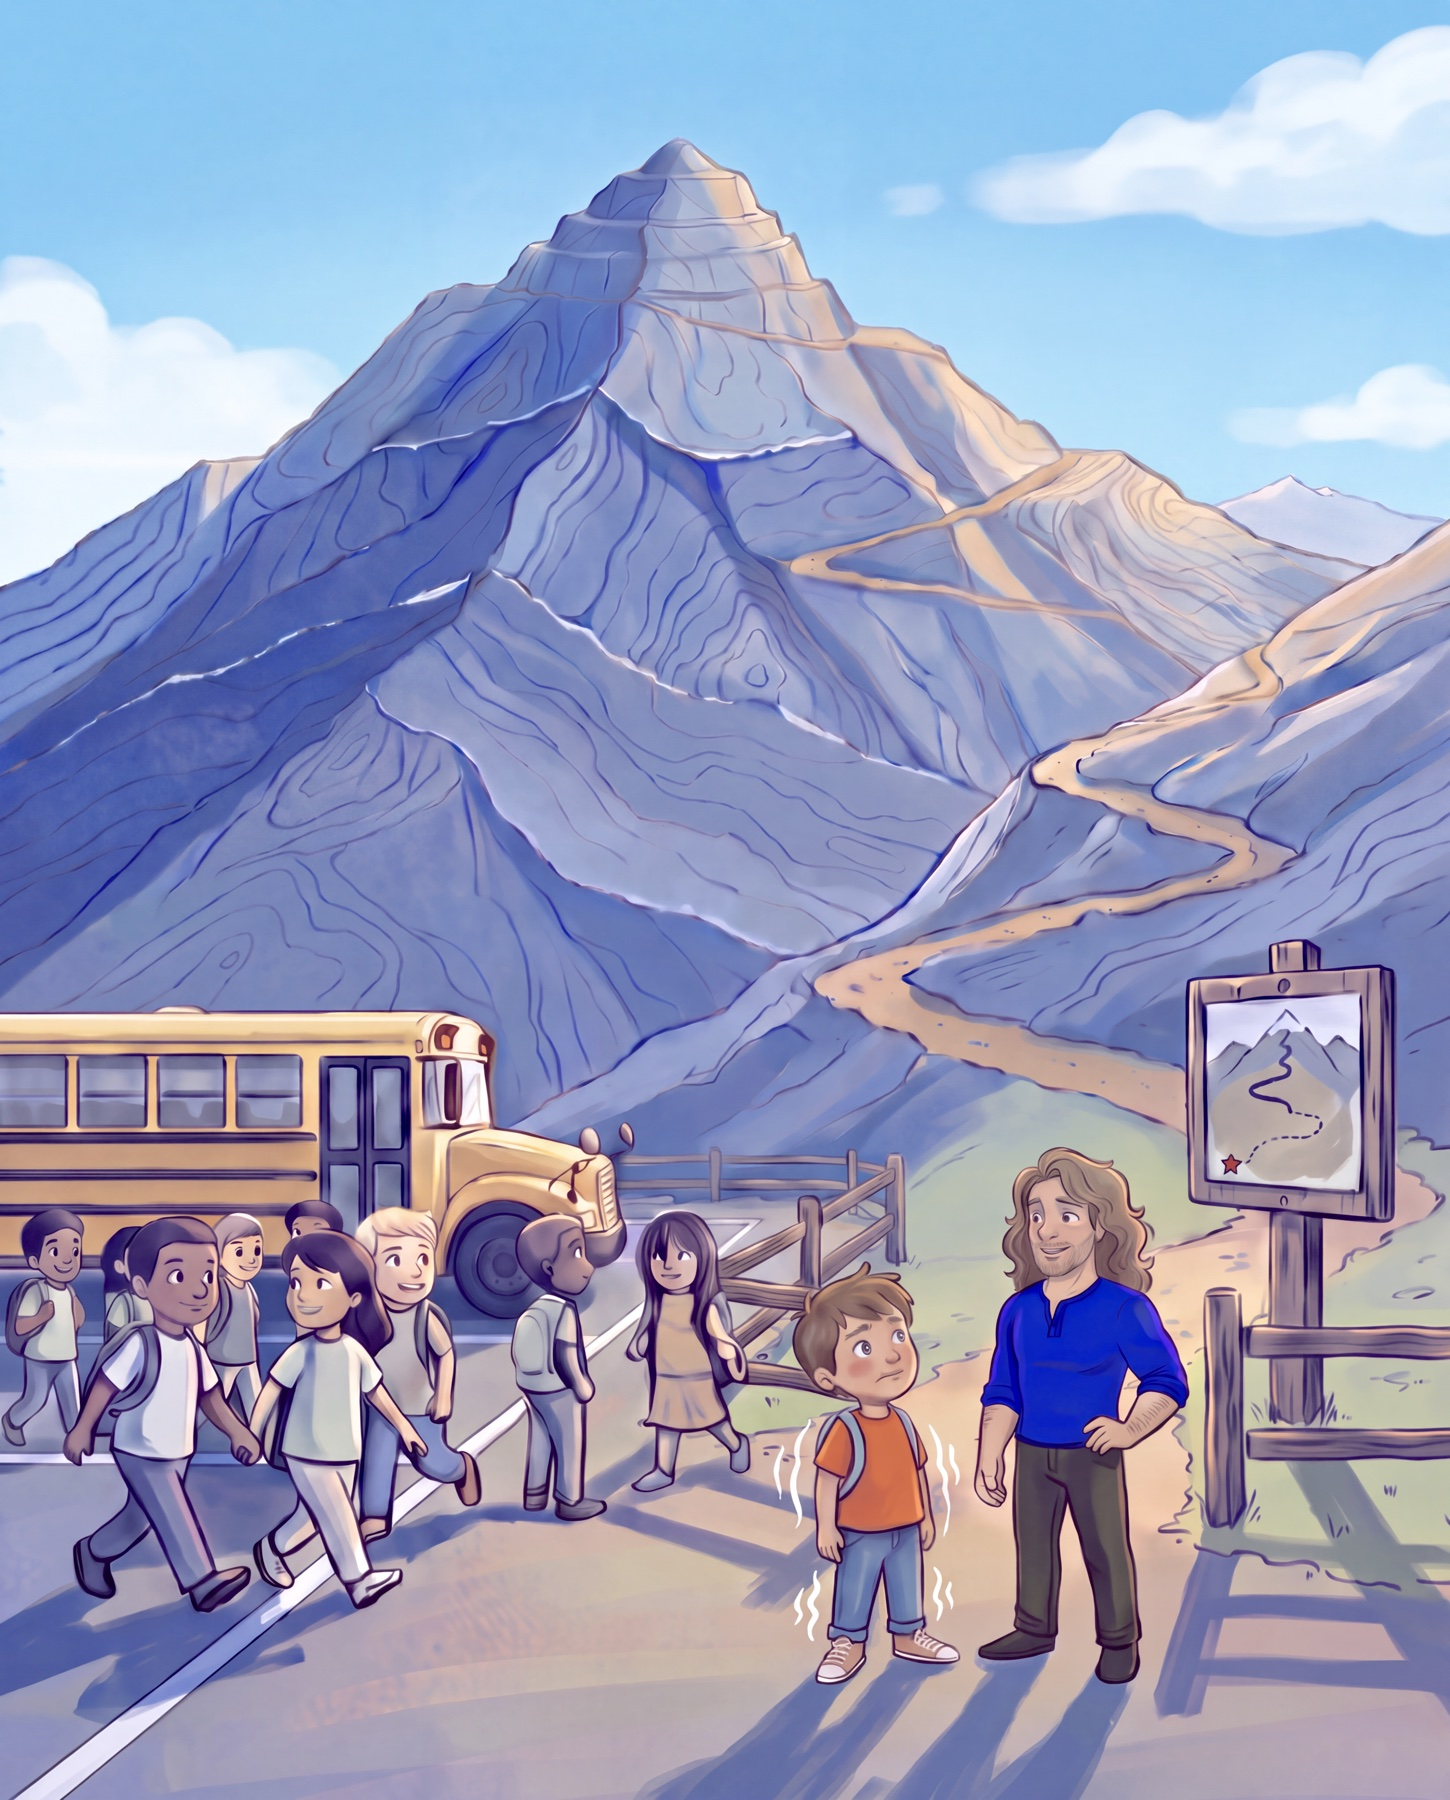
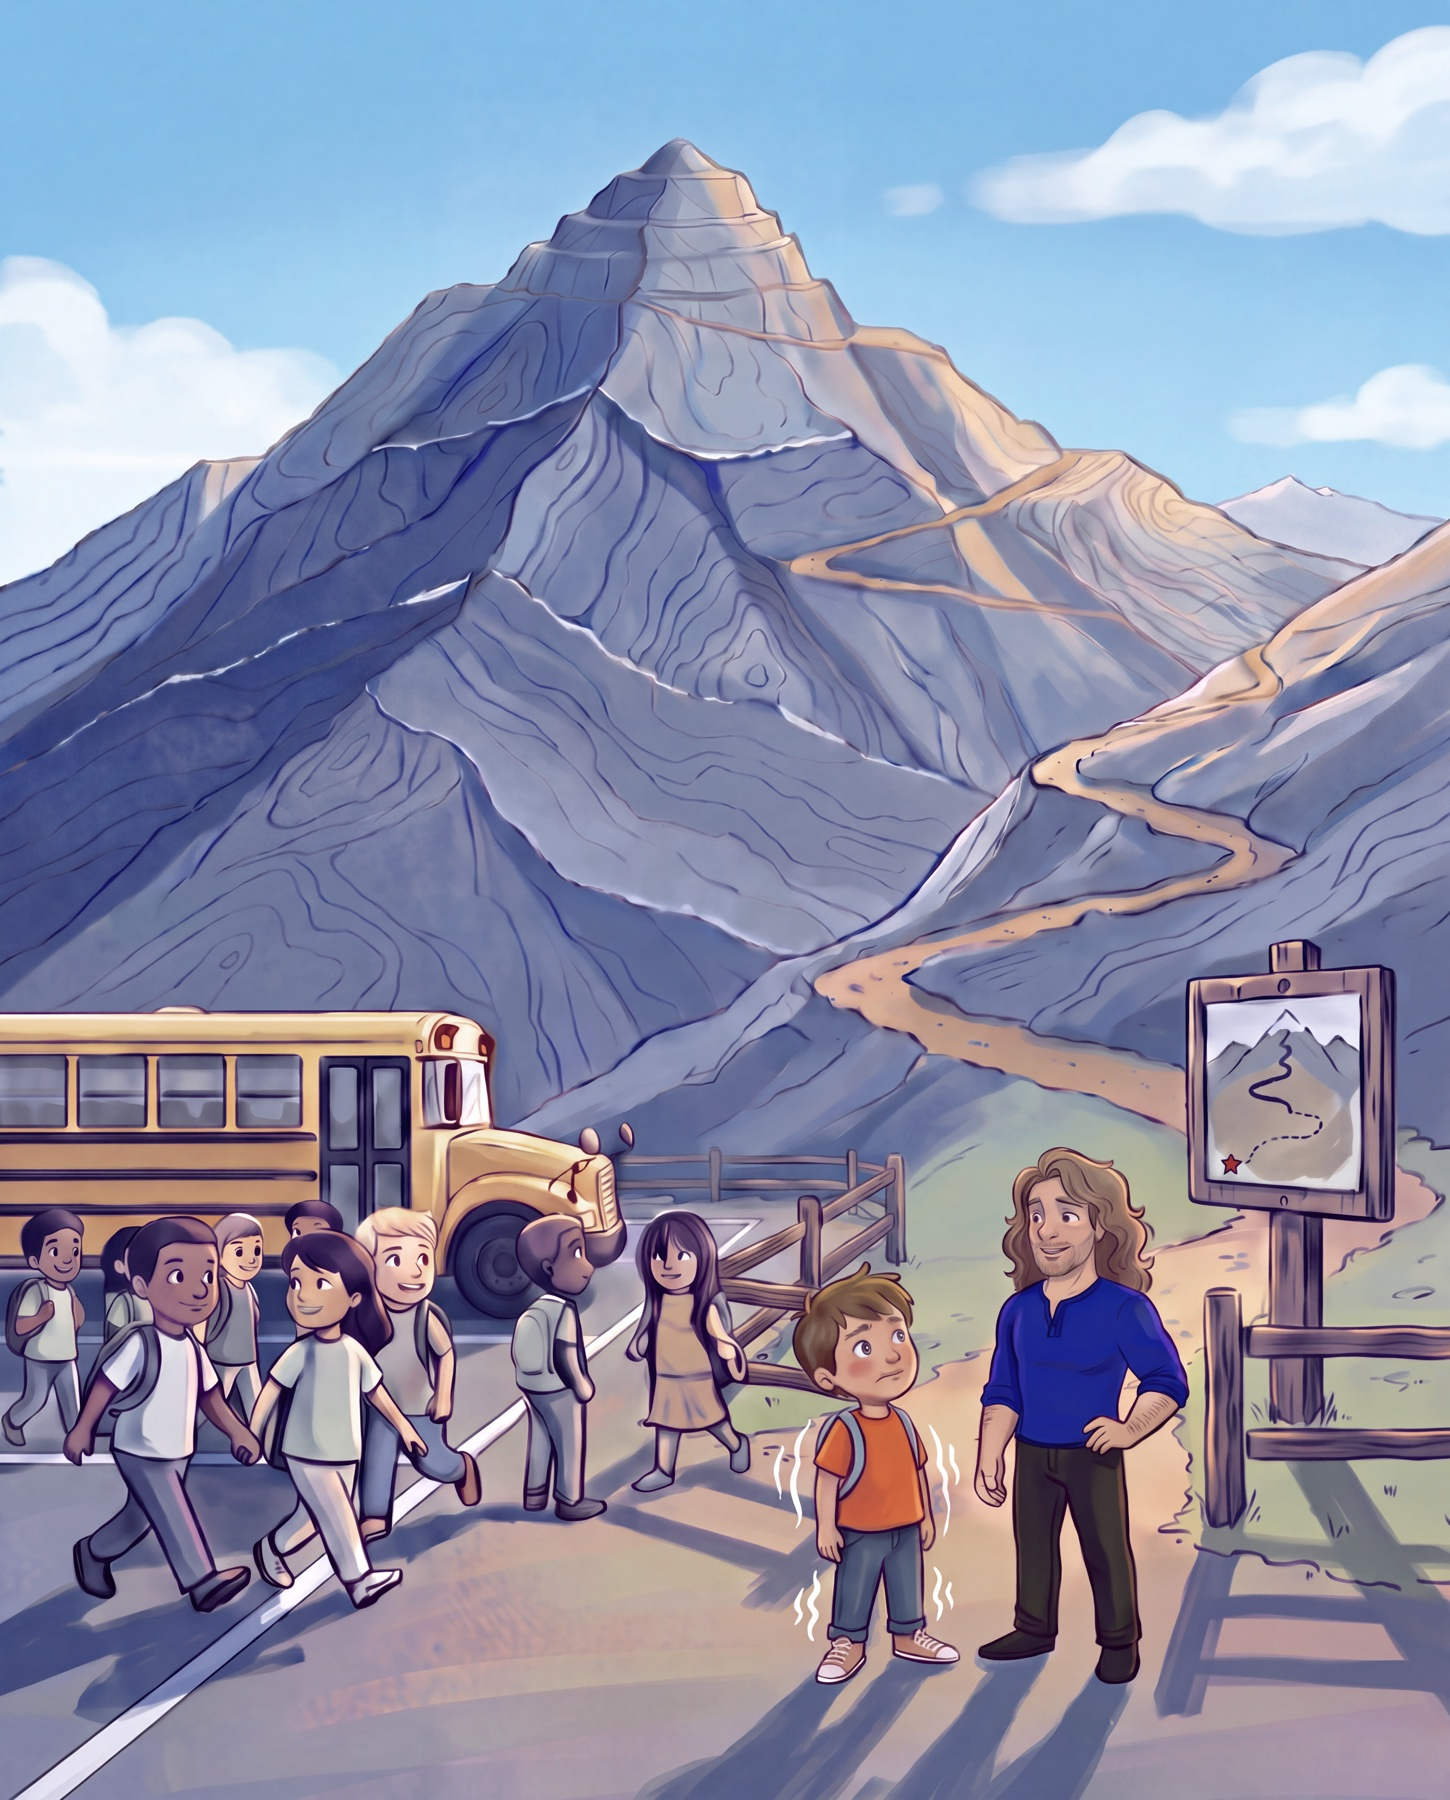
Climbing Machine: cover title, spread 3 art, one lowercase L
Cover reads "Climbing Machine" — drops "I'm a" and the byline — and sits
lower in the sky rather than jammed against the top edge. 9% clears the
summit tip; 13% ran the type straight through the peak.

Spread 3 replaced with the final artwork (same 4:5 ratio, so the size
ladder still frames it). Spread 6: "Limitless" → "limitless".

diff --git a/site/builds/climbing-machine/index.html b/site/builds/climbing-machine/index.html
@@ -3,7 +3,7 @@
 <head>
   <meta charset="UTF-8">
   <meta name="viewport" content="width=device-width, initial-scale=1">
-  <title>I'm a Climbing Machine — James Floyd</title>
+  <title>Climbing Machine — James Floyd</title>
   <meta name="description" content="I'm a Climbing Machine — a children's book by James Floyd.">
   <meta name="robots" content="noindex, nofollow">
   <link rel="icon" href="/favicon.ico" sizes="any">
@@ -121,17 +121,13 @@
       object-fit: cover; object-position: center bottom;
     }
     .page.cover.full .cover-titles {
-      position: absolute; top: 5.5%; left: 0; right: 0; z-index: 2; text-align: center;
+      position: absolute; top: 9%; left: 0; right: 0; z-index: 2; text-align: center;
     }
     .page.cover.full .cover-titles h2 {
       font-family: 'Fraunces', serif; font-weight: 700;
       font-size: clamp(1.4rem, 3.4vw, 2.3rem); letter-spacing: -.02em;
       margin: 0 0 4px; color: #22303c;
       text-shadow: 0 1px 0 rgba(255,255,255,.55), 0 2px 18px rgba(255,255,255,.75);
-    }
-    .page.cover.full .cover-titles .by {
-      font-style: italic; margin: 0; color: #33414d;
-      text-shadow: 0 1px 12px rgba(255,255,255,.75);
     }
     .page.cover .inner { justify-content: center; text-align: center; }
     .page.cover .art { width: 56%; margin: 0 auto; }
@@ -174,8 +170,8 @@
   <a href="/builds/" class="cm-back">← Builds</a>
 
   <header class="cm-head">
-    <h1>I'm a Climbing Machine</h1>
-    <p>a children's book by James Floyd</p>
+    <h1>Climbing Machine</h1>
+    <p>a children's book</p>
   </header>
   <p class="cm-hint">Drag a corner, tap the edges, or use ← → to turn the pages</p>
 
@@ -186,8 +182,7 @@
       <div class="page cover full" data-density="hard">
         <img class="cover-art" src="/books/climbing-machine/cover.jpg" alt="A boy with a backpack looks up at a huge mountain trail">
         <div class="cover-titles">
-          <h2>I'm a Climbing Machine</h2>
-          <p class="by">by James Floyd</p>
+          <h2>Climbing Machine</h2>
         </div>
       </div>
 
@@ -238,7 +233,7 @@
 
       <!-- S6 -->
       <div class="page tpage"><div class="inner">
-        <div class="txt"><p>Floyd reminded everyone “Remember, at Alpha we are Limitless!”</p><p>“I really want to finish this,” thought James, his heart beating fast.</p></div>
+        <div class="txt"><p>Floyd reminded everyone “Remember, at Alpha we are limitless!”</p><p>“I really want to finish this,” thought James, his heart beating fast.</p></div>
         <div class="folio">12</div>
       </div></div>
       <div class="page apage"><div class="inner">
